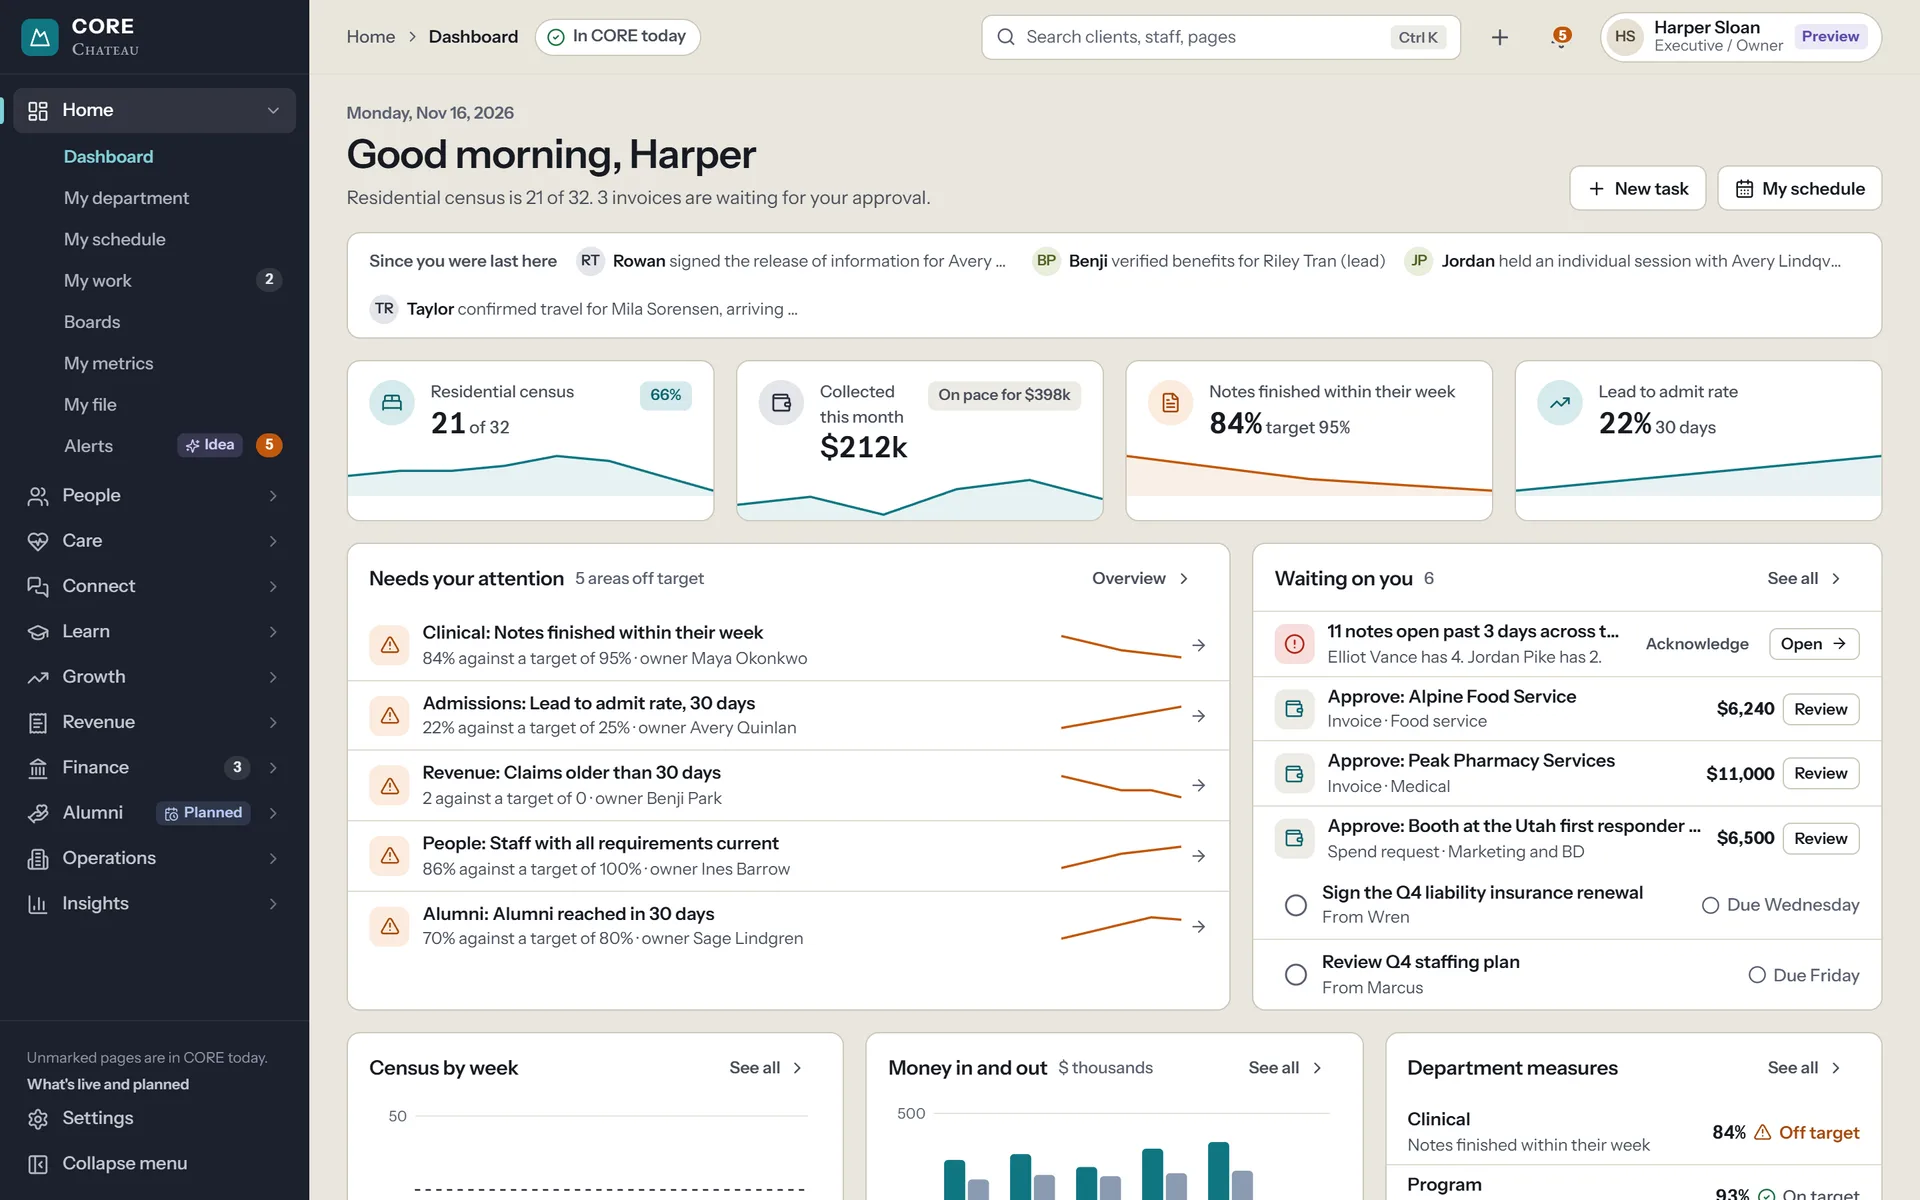
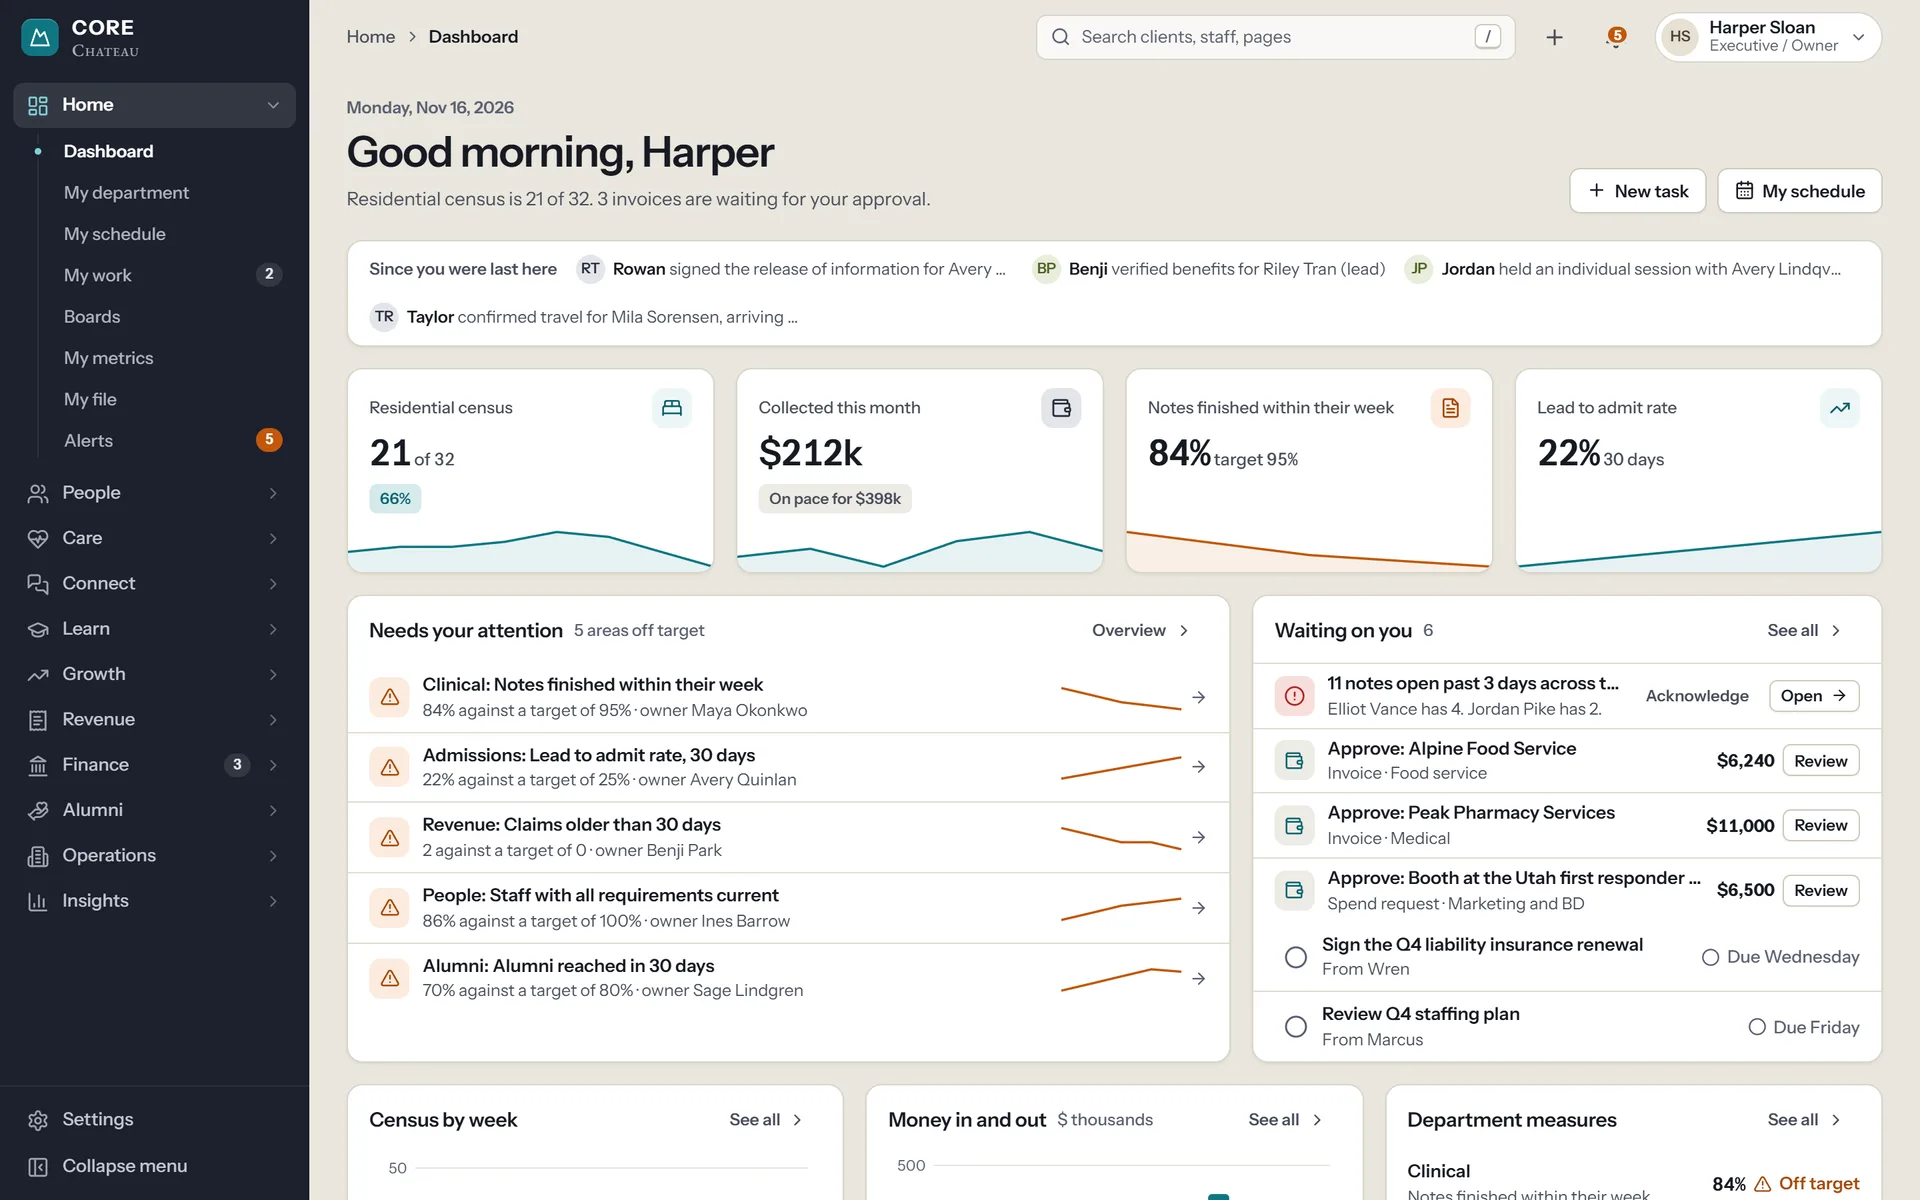
Use a Finance example on the naming slide and refresh the screenshots
The naming slide now reads 'Name the page and name what you like' with a
Finance Budgets example. Screenshots match the mockup after its pass 21.

diff --git a/index.html b/index.html
@@ -378,7 +378,7 @@ End the file with a short note on using it in CORE: the mockup is plain React an
     <figure class="frame reveal" style="--i:1">
       <div class="shot">
         <img src="assets/screen-home-exec.webp" alt="The mockup's Home dashboard for the Executive role: census, money collected, a Needs your attention list and a Waiting on you list." width="1920" height="1200" loading="lazy">
-        <span class="mark soft below" style="left:83%;top:0.8%;width:15.4%;height:4.6%"><span>Role switcher</span></span>
+        <span class="mark soft below" style="left:86%;top:0.8%;width:12.2%;height:4.6%"><span>Role switcher</span></span>
       </div>
     </figure>
   </div>
@@ -406,23 +406,23 @@ End the file with a short note on using it in CORE: the mockup is plain React an
   <div class="wrap split">
     <div class="text">
       <div class="head">
-        <h2 id="h9" class="reveal">Name the page and the heading.</h2>
+        <h2 id="h9" class="reveal">Name the page and name what you like.</h2>
       </div>
       <div class="pair reveal" style="--i:1">
+        <div class="quote good">
+          <span class="k"><svg width="16" height="16" viewBox="0 0 24 24" fill="none" stroke="currentColor" stroke-width="2.2" stroke-linecap="round" stroke-linejoin="round" aria-hidden="true"><path d="m4.5 12.75 6 6 9-13.5"/></svg>For example</span>
+          <p>&ldquo;I'm on the Finance Budgets page. I love the Department budgets panel, with the bars that show where spend should be today. I want that.&rdquo;</p>
+        </div>
         <div class="quote">
           <span class="k"><svg width="16" height="16" viewBox="0 0 24 24" fill="none" stroke="currentColor" stroke-width="2" stroke-linecap="round" aria-hidden="true"><path d="M6 6l12 12M18 6 6 18"/></svg>Too vague</span>
-          <p>&ldquo;I like the board thing.&rdquo;</p>
-        </div>
-        <div class="quote good">
-          <span class="k"><svg width="16" height="16" viewBox="0 0 24 24" fill="none" stroke="currentColor" stroke-width="2.2" stroke-linecap="round" stroke-linejoin="round" aria-hidden="true"><path d="m4.5 12.75 6 6 9-13.5"/></svg>Specific enough</span>
-          <p>&ldquo;On the Daily board, the panel titled &lsquo;Where clients are&rsquo; looks awesome. I want that.&rdquo;</p>
+          <p>&ldquo;I like the budget thing.&rdquo;</p>
         </div>
       </div>
     </div>
     <figure class="frame reveal" style="--i:1">
       <div class="shot">
-        <img src="assets/screen-daily-board.webp" alt="The mockup's Daily board. The panel titled Where clients are is outlined: three columns for In the house, At group and Signed out." width="1920" height="1200" loading="lazy">
-        <span class="mark" style="left:18%;top:28.4%;width:80.1%;height:46.3%"><span>&ldquo;Where clients are&rdquo;</span></span>
+        <img src="assets/screen-budgets.webp" alt="The mockup's Finance Budgets page. The Department budgets panel is outlined: one row per department with a spending bar, a marker for where spend should be today, and a status." width="1920" height="1200" loading="lazy">
+        <span class="mark" style="left:17.8%;top:44.6%;width:54.3%;height:53.7%"><span>Department budgets</span></span>
       </div>
     </figure>
   </div>
@@ -435,10 +435,10 @@ End the file with a short note on using it in CORE: the mockup is plain React an
       <h2 id="h10" class="reveal">Four things worth saying out loud.</h2>
     </div>
     <ul class="cells c4 reveal" style="--i:1">
-      <li class="cell"><h3>The page</h3><p>Read it off the top bar.</p><span class="say">&ldquo;I'm on Revenue, Billing review.&rdquo;</span></li>
-      <li class="cell"><h3>The heading</h3><p>Any title, tab or label on screen.</p><span class="say">&ldquo;The table with the &lsquo;Ready to bill&rsquo; tab.&rdquo;</span></li>
-      <li class="cell"><h3>The role</h3><p>Pages change by role.</p><span class="say">&ldquo;I'm viewing as Executive.&rdquo;</span></li>
-      <li class="cell"><h3>The reason</h3><p>Layout, colour, wording or behaviour.</p><span class="say">&ldquo;I like the status in the last column.&rdquo;</span></li>
+      <li class="cell"><h3>The page</h3><p>Read it off the top bar.</p><span class="say">&ldquo;I'm on Finance, Budgets.&rdquo;</span></li>
+      <li class="cell"><h3>What you like</h3><p>A panel, table, button, colour or layout. Use any words on screen.</p><span class="say">&ldquo;The Department budgets panel.&rdquo;</span></li>
+      <li class="cell"><h3>The role</h3><p>Pages change by role.</p><span class="say">&ldquo;I'm viewing as Finance.&rdquo;</span></li>
+      <li class="cell"><h3>The reason</h3><p>Layout, colour, wording or behaviour.</p><span class="say">&ldquo;I like the marker for where spend should be today.&rdquo;</span></li>
     </ul>
   </div>
 </section>
@@ -453,7 +453,7 @@ End the file with a short note on using it in CORE: the mockup is plain React an
         <p class="lede reveal" style="--i:2">Claude writes one file in your review folder. Each pick lists <strong>where it is, what it's for, what you liked and the code that builds it.</strong></p>
       </div>
     </div>
-    <div class="doc reveal" style="--i:2" role="img" aria-label="Example of the picks file. Pick 1: Where clients are, a component. Where: Care, Daily board, under the heading Where clients are, viewed as Program staff. What it's for: shows who is in the house, at group or signed out right now. What you liked: three columns and the late flag. Code: src/pages/care.jsx and src/styles/components.css.">
+    <div class="doc reveal" style="--i:2" role="img" aria-label="Example of the picks file. Pick 1: Department budgets, a component. Where: Finance, Budgets, under the heading Department budgets, viewed as Finance. What it's for: shows each department's spending against its monthly budget. What you liked: the bars that show where spend should be today. Code: src/pages/finance.jsx and src/components/spend.jsx.">
       <div class="cbHead">
         <span class="cbFile">
           <svg viewBox="0 0 24 24" width="16" height="16" fill="none" stroke="currentColor" stroke-width="1.8" stroke-linecap="round" stroke-linejoin="round" aria-hidden="true"><path d="M14 3H7a2 2 0 0 0-2 2v14a2 2 0 0 0 2 2h10a2 2 0 0 0 2-2V8z"/><path d="M14 3v5h5"/></svg>
@@ -461,15 +461,15 @@ End the file with a short note on using it in CORE: the mockup is plain React an
         </span>
       </div>
       <div class="docBody" aria-hidden="true">
-        <h3>1. Where clients are</h3>
+        <h3>1. Department budgets</h3>
         <dl>
           <div><dt>Type</dt><dd>Component</dd></div>
-          <div><dt>Where</dt><dd>Care &rsaquo; Daily board, heading &ldquo;Where clients are&rdquo;, as Program staff</dd></div>
-          <div><dt>What it's for</dt><dd>Shows who is in the house, at group or signed out right now</dd></div>
-          <div><dt>What you liked</dt><dd>&ldquo;Three columns, and the late flag jumps out.&rdquo;</dd></div>
-          <div><dt>Code</dt><dd class="mono">core-vision-prototype/src/pages/care.jsx<br>core-vision-prototype/src/styles/components.css</dd></div>
+          <div><dt>Where</dt><dd>Finance &rsaquo; Budgets, heading &ldquo;Department budgets&rdquo;, as Finance</dd></div>
+          <div><dt>What it's for</dt><dd>Shows each department's spending against its monthly budget</dd></div>
+          <div><dt>What you liked</dt><dd>&ldquo;The bars that show where spend should be today.&rdquo;</dd></div>
+          <div><dt>Code</dt><dd class="mono">core-vision-prototype/src/pages/finance.jsx<br>core-vision-prototype/src/components/spend.jsx</dd></div>
         </dl>
-        <p class="more">2. Billing review table &nbsp;&middot;&nbsp; 3. Needs your attention list &nbsp;&middot;&nbsp; &hellip;</p>
+        <p class="more">2. Waiting for a decision list &nbsp;&middot;&nbsp; 3. Billing review table &nbsp;&middot;&nbsp; &hellip;</p>
       </div>
     </div>
   </div>
